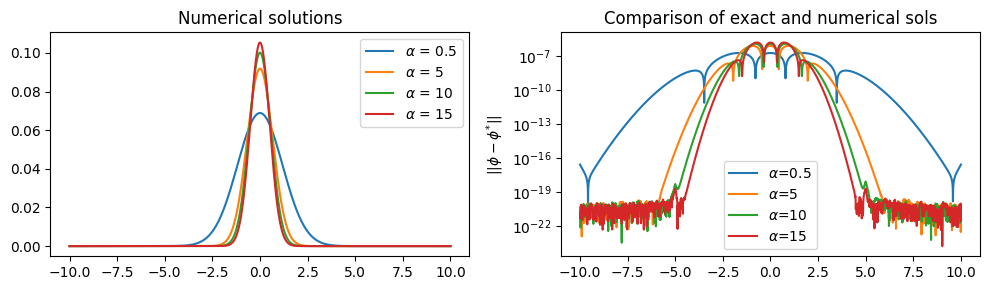
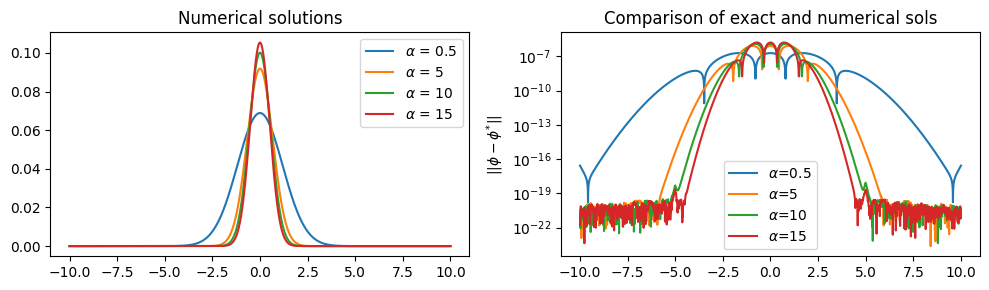
deploy: e552249bc8c4214d0dffef2617b33e865a4e3299

diff --git a/searchindex.js b/searchindex.js
@@ -1,1 +1,1 @@
-Search.setIndex({docnames:["contributors","dft/dft","gp/gp","greedy/greedy","ho/1dHO","ho/ho","ho/ho-rbm","ho/ho-ritz","introduction/emulators","introduction/introduction","introduction/redundancy","landing","markdown-notebooks","notebooks","rbm/lagrange","rbm/pod","rbm/projecting","rbm/rbm","rbm/training","scattering/scattering","transforms/transforms"],envversion:{"sphinx.domains.c":2,"sphinx.domains.changeset":1,"sphinx.domains.citation":1,"sphinx.domains.cpp":5,"sphinx.domains.index":1,"sphinx.domains.javascript":2,"sphinx.domains.math":2,"sphinx.domains.python":3,"sphinx.domains.rst":2,"sphinx.domains.std":2,"sphinx.ext.intersphinx":1,"sphinxcontrib.bibtex":9,sphinx:56},filenames:["contributors.md","dft/dft.md","gp/gp.md","greedy/greedy.md","ho/1dHO.ipynb","ho/ho.md","ho/ho-rbm.md","ho/ho-ritz.md","introduction/emulators.md","introduction/introduction.md","introduction/redundancy.md","landing.md","markdown-notebooks.md","notebooks.ipynb","rbm/lagrange.md","rbm/pod.md","rbm/projecting.md","rbm/rbm.md","rbm/training.md","scattering/scattering.md","transforms/transforms.md"],objects:{},objnames:{},objtypes:{},terms:{"0":[4,13],"001175561288746":4,"0011755612887460742":4,"01421624":4,"02001628":4,"05":4,"06":4,"0x7f6764757890":13,"1":[11,13],"10":[4,13],"100":13,"12":4,"1250143395222807e":4,"125043601093225e":4,"15":4,"1622151589324003":4,"1622776601683795":4,"19680801":13,"1d":4,"2":[4,11,12],"2001":4,"236036727063779":4,"23606797749979":4,"240":4,"25":4,"250123597917323e":4,"2d":4,"2me":4,"2nd":4,"3":[4,11],"31046244":4,"375226888597155e":4,"4":[4,11,12,13],"5":[4,13],"6":4,"707103656172208":4,"7071067811865476":4,"72240374":4,"872889593938531":4,"872983346207417":4,"9":4,"default":12,"do":[4,13],"float":4,"function":4,"import":[4,13],"new":4,"return":4,As:13,But:13,For:[4,11,13],If:[0,12],That:12,The:[11,12],There:13,These:4,To:4,With:12,_:4,_ioncontext:13,a_:4,a_k:4,a_sol:4,a_vec:4,ab:4,abil:4,about:[12,13],abov:4,accur:4,add:0,add_:13,addit:4,ak_guess:4,ak_system:4,algorithm:11,align:[4,13],all:12,alpha:4,alpha_:4,alpha_k:4,alpha_sampl:4,alpha_v:4,also:[4,12,13],an:4,ani:[4,12],anyth:0,appli:4,applic:11,appproxim:4,approx_sol:4,approxim:4,ar:[4,12],arang:4,arbitrari:4,around:4,arrai:[4,13],ascend:4,assign:4,assum:4,ax:[4,13],base:12,begin:[4,13],big:4,block:12,book:[0,12,13],boundari:4,built:12,can:[4,11,12,13],cheaper:4,check:[4,13],choic:4,choos:4,chosen:4,cm:13,cmap:13,code:[11,12],coeffeci:4,cold:13,color:13,column:4,com:11,come:4,command:12,comparison:4,compon:4,condit:4,consid:4,construct_h:4,contact:0,content:[0,12],contribut:[0,4],contributor:11,convert:12,coolwarm:13,copi:4,correspond:4,creat:13,custom_lin:13,cycler:13,d:[0,4,12],data:13,decomposit:4,decreas:4,def:4,defin:[4,12],definit:4,demo:4,depend:4,descript:4,detail:12,dft:11,diag:4,diagon:4,diff:4,differ:4,differenti:4,dim:4,dimension:11,direct:12,directli:4,discret:4,displai:12,document:[12,13],dollar:13,domain:4,dot:4,down:4,dx:4,e:4,each:4,eigenvalu:4,eigenvector:4,eigh:4,element:4,emb:13,end:[4,13],energi:4,enforc:4,enumer:4,equat:[4,11],eric:[0,4],error:4,escap:13,etc:13,eval:4,evalu:4,evect:4,everyon:0,exact:4,exampl:[11,13],excit:[4,11],execut:12,exp:4,explicitli:4,f:4,f_:4,factori:4,few:4,fig:[4,13],figsiz:[4,13],file:12,fill:11,find:[4,11],finit:4,first:4,fix:[4,13],flynn:[0,4],follow:12,form:4,found:11,frac:4,frequenc:4,from:[4,13],fsolv:4,gain:4,galerkin:4,gener:11,get:[4,12],getexactlambda:4,getpsi_x:4,getsystem:4,github:11,give:4,given:4,global:4,goal:4,godbei:0,greedi:11,grid:4,gross:11,guess:4,guid:13,h:4,h_k:4,ha:[0,4],hamiltonian:4,harmon:11,hat:4,have:12,hbar:4,here:[4,11,13],herm:4,hermit:4,ho:4,hold:4,hot:13,how:[4,12],howev:4,html:13,http:11,i:4,idea:0,ident:4,ii:13,imag:13,impli:4,includ:[12,13],increas:4,independ:4,inform:[4,12,13],init:12,initi:4,instruct:12,integ:4,integr:4,interact:13,interest:4,interpret:4,ion:13,j:4,jupyt:[12,13],jupytext:12,just:4,k:4,keep:13,kernel:12,know:4,kp:4,kyle:0,kylegodbei:11,la_:13,label:4,lambda:4,lambda_:4,lambda_exact:4,langl:4,lead:4,left:4,legend:[4,13],len:4,length:4,less:4,let:12,like:[0,12],linalg:4,line2d:13,line:[12,13],linearli:4,linspac:13,list:11,live:0,logspac:13,lot:13,lw:13,m:4,mai:4,make:[4,13],mani:[0,4,12],manifold:4,markdownfil:12,mass:4,math:[4,13],matmul:4,matplotlib:[4,13],matrix:4,mbox:13,md:12,mean:13,medium:13,method:4,might:4,model:4,modifi:11,more:[12,13],move:4,mu:4,n:[4,13],n_comp:4,nd:4,ndarrai:4,need:[4,12],norm:4,normal:4,note:4,now:[4,11],np:[4,13],nth:4,number:4,numer:4,numpi:[4,13],o:4,off:12,off_diag:4,ok:4,omega:4,one:11,oper:4,optim:4,order:4,orthogon:4,oscil:11,other:12,our:4,out:13,output:[4,12],over:4,page:[4,12],panel:4,paper:11,paperarch:11,paramet:4,path:12,phi:4,phi_:4,phi_arrai:4,pi:4,pitaevskii:11,pleas:0,plot:[4,13],plt:[4,13],point:4,posit:4,post:13,potenti:4,presenc:12,principl:4,print:[4,12],problem:4,project:4,projector:4,prop_cycl:13,psi:4,psi_:4,psi_arrai:4,pyplot:[4,13],quantifi:4,quantum:11,r:4,randn:13,random:13,rang:[4,13],rangl:4,rbm:[4,11],rcparam:13,reduc:4,repeatli:4,reproduc:13,rest:[4,12],result:[4,11],right:[4,11],row:4,run:12,s:[4,12,13],same:4,sampl:13,scatter:11,scheme:4,schroding:4,sci:4,scipi:4,se:4,see:[4,11,12,13],seed:13,seem:4,select:4,semilog:4,set:4,set_titl:4,set_ylabel:4,setup:4,should:12,show:[4,12],sigma:4,sign:13,significantli:4,simpl:11,simpson:4,sinc:4,singular:4,slow:4,so:12,sol:4,solut:4,some:[0,13],soon:11,space:4,span:4,special:4,sqrt:4,start:[4,12],state:[4,13],str:4,stretch:11,subplot:[4,13],subspac:4,sum_:4,support:12,sure:[4,13],svd:4,syetem:4,system:4,t:[4,13],t_eval:4,take:4,taken:4,tell:4,term:4,tex:13,text:12,thank:0,thi:[0,4,11,12,13],thing:12,tight_layout:4,toeplitz:4,top:12,translat:11,treat:12,tree:11,true_wf:4,tutori:[4,11],two:12,type:4,u:4,understand:12,unknown:4,up:4,us:[4,12],usual:4,v:4,valu:4,variabl:4,vector:4,vh:4,wai:0,want:[4,13],warn:4,wavefunct:4,we:4,webmast:0,well:[4,13],wf:4,wf_val:4,when:12,where:4,which:12,without:4,work:[4,13],write:12,written:12,x:4,x_a:4,x_arrai:4,x_b:4,you:[0,11,12,13],your:[0,4,12,13],zero:4,zettili:4},titles:["Contributors","Application 4: Nuclear DFT","Application 2: The Gross-Pitaevskii Equation","The Greedy Algorithm","Application 1: The Quantum Harmonic Oscillator","Application 1: The Quantum Harmonic Oscillator","The RBM Approach","The Ritz Variational Approach","Why Emulators?","Introduction","Redundancy in Simulations","Introduction to Reduced-Basis Methods in Nuclear Physics","Notebooks with MyST Markdown","Content with notebooks","Lagrange Reduced Basis","PCA and POD","Finding the Coefficients: Projecting","The Reduced Basis Method","Choosing the Basis: Training","Application 3: Nuclear Scattering","Modifying the Basis: Stretching and Translating"],titleterms:{"1":[4,5],"2":2,"3":19,"4":1,The:[2,3,4,5,6,7,17],add:12,algorithm:3,an:12,applic:[1,2,4,5,19],approach:[6,7],background:4,basi:[4,11,14,17,18,20],block:13,cell:12,choos:18,code:13,coeffici:16,compar:4,construct:4,content:13,contributor:0,creat:12,dft:1,doctor:4,emul:8,equat:2,exactli:4,exampl:12,find:16,greedi:3,gross:2,harmon:[4,5],introduct:[9,11],lagrang:14,markdown:[12,13],metadata:12,method:[11,17],modifi:20,myst:[12,13],notebook:[12,13],nuclear:[1,11,19],oscil:[4,5],output:13,pca:[4,15],physic:11,pitaevskii:2,pod:15,project:16,quantum:[4,5],quickli:12,rbm:6,reduc:[11,14,17],redund:10,ritz:7,scatter:19,simul:10,solv:4,stretch:20,train:18,translat:20,variat:7,visit:4,why:8,yaml:12}})
+Search.setIndex({docnames:["contributors","dft/dft","gp/gp","greedy/greedy","ho/1dHO","ho/ho","ho/ho-rbm","ho/ho-ritz","introduction/emulators","introduction/introduction","introduction/redundancy","landing","markdown-notebooks","notebooks","rbm/lagrange","rbm/pod","rbm/projecting","rbm/rbm","rbm/training","scattering/scattering","transforms/transforms"],envversion:{"sphinx.domains.c":2,"sphinx.domains.changeset":1,"sphinx.domains.citation":1,"sphinx.domains.cpp":5,"sphinx.domains.index":1,"sphinx.domains.javascript":2,"sphinx.domains.math":2,"sphinx.domains.python":3,"sphinx.domains.rst":2,"sphinx.domains.std":2,"sphinx.ext.intersphinx":1,"sphinxcontrib.bibtex":9,sphinx:56},filenames:["contributors.md","dft/dft.md","gp/gp.md","greedy/greedy.md","ho/1dHO.ipynb","ho/ho.md","ho/ho-rbm.md","ho/ho-ritz.md","introduction/emulators.md","introduction/introduction.md","introduction/redundancy.md","landing.md","markdown-notebooks.md","notebooks.ipynb","rbm/lagrange.md","rbm/pod.md","rbm/projecting.md","rbm/rbm.md","rbm/training.md","scattering/scattering.md","transforms/transforms.md"],objects:{},objnames:{},objtypes:{},terms:{"0":[4,13],"0011755612878099342":4,"00117556128781":4,"01421624":4,"02001628":4,"05":4,"06":4,"0x7fe900cea590":13,"1":[11,13],"10":[4,13],"100":13,"12":4,"1250143394112584e":4,"1250436011820426e":4,"15":4,"1622151589324003":4,"1622776601683795":4,"19680801":13,"1d":4,"2":[4,11,12],"2001":4,"236036727063778":4,"23606797749979":4,"240":4,"25":4,"250123597917323e":4,"2d":4,"2me":4,"2nd":4,"3":[4,11],"31046244":4,"375226888597155e":4,"4":[4,11,12,13],"5":[4,13],"6":4,"7071036561722082":4,"7071067811865476":4,"72240374":4,"872889593938531":4,"872983346207417":4,"9":4,"default":12,"do":[4,13],"float":4,"function":4,"import":[4,13],"new":4,"return":4,As:13,But:13,For:[4,11,13],If:[0,12],That:12,The:[11,12],There:13,These:4,To:4,With:12,_:4,_ioncontext:13,a_:4,a_k:4,a_sol:4,a_vec:4,ab:4,abil:4,about:[12,13],abov:4,accur:4,add:0,add_:13,addit:4,ak_guess:4,ak_system:4,algorithm:11,align:[4,13],all:12,alpha:4,alpha_:4,alpha_k:4,alpha_sampl:4,alpha_v:4,also:[4,12,13],an:4,ani:[4,12],anyth:0,appli:4,applic:11,appproxim:4,approx_sol:4,approxim:4,ar:[4,12],arang:4,arbitrari:4,around:4,arrai:[4,13],ascend:4,assign:4,assum:4,ax:[4,13],base:12,begin:[4,13],big:4,block:12,book:[0,12,13],boundari:4,built:12,can:[4,11,12,13],cheaper:4,check:[4,13],choic:4,choos:4,chosen:4,cm:13,cmap:13,code:[11,12],coeffeci:4,cold:13,color:13,column:4,com:11,come:4,command:12,comparison:4,compon:4,condit:4,consid:4,construct_h:4,contact:0,content:[0,12],contribut:[0,4],contributor:11,convert:12,coolwarm:13,copi:4,correspond:4,creat:13,custom_lin:13,cycler:13,d:[0,4,12],data:13,decomposit:4,decreas:4,def:4,defin:[4,12],definit:4,demo:4,depend:4,descript:4,detail:12,dft:11,diag:4,diagon:4,diff:4,differ:4,differenti:4,dim:4,dimension:11,direct:12,directli:4,discret:4,displai:12,document:[12,13],dollar:13,domain:4,dot:4,down:4,dx:4,e:4,each:4,eigenvalu:4,eigenvector:4,eigh:4,element:4,emb:13,end:[4,13],energi:4,enforc:4,enumer:4,equat:[4,11],eric:[0,4],error:4,escap:13,etc:13,eval:4,evalu:4,evect:4,everyon:0,exact:4,exampl:[11,13],excit:[4,11],execut:12,exp:4,explicitli:4,f:4,f_:4,factori:4,few:4,fig:[4,13],figsiz:[4,13],file:12,fill:11,find:[4,11],finit:4,first:4,fix:[4,13],flynn:[0,4],follow:12,form:4,found:11,frac:4,frequenc:4,from:[4,13],fsolv:4,gain:4,galerkin:4,gener:11,get:[4,12],getexactlambda:4,getpsi_x:4,getsystem:4,github:11,give:4,given:4,global:4,goal:4,godbei:0,greedi:11,grid:4,gross:11,guess:4,guid:13,h:4,h_k:4,ha:[0,4],hamiltonian:4,harmon:11,hat:4,have:12,hbar:4,here:[4,11,13],herm:4,hermit:4,ho:4,hold:4,hot:13,how:[4,12],howev:4,html:13,http:11,i:4,idea:0,ident:4,ii:13,imag:13,impli:4,includ:[12,13],increas:4,independ:4,inform:[4,12,13],init:12,initi:4,instruct:12,integ:4,integr:4,interact:13,interest:4,interpret:4,ion:13,j:4,jupyt:[12,13],jupytext:12,just:4,k:4,keep:13,kernel:12,know:4,kp:4,kyle:0,kylegodbei:11,la_:13,label:4,lambda:4,lambda_:4,lambda_exact:4,langl:4,lead:4,left:4,legend:[4,13],len:4,length:4,less:4,let:12,like:[0,12],linalg:4,line2d:13,line:[12,13],linearli:4,linspac:13,list:11,live:0,logspac:13,lot:13,lw:13,m:4,mai:4,make:[4,13],mani:[0,4,12],manifold:4,markdownfil:12,mass:4,math:[4,13],matmul:4,matplotlib:[4,13],matrix:4,mbox:13,md:12,mean:13,medium:13,method:4,might:4,model:4,modifi:11,more:[12,13],move:4,mu:4,n:[4,13],n_comp:4,nd:4,ndarrai:4,need:[4,12],norm:4,normal:4,note:4,now:[4,11],np:[4,13],nth:4,number:4,numer:4,numpi:[4,13],o:4,off:12,off_diag:4,ok:4,omega:4,one:11,oper:4,optim:4,order:4,orthogon:4,oscil:11,other:12,our:4,out:13,output:[4,12],over:4,page:[4,12],panel:4,paper:11,paperarch:11,paramet:4,path:12,phi:4,phi_:4,phi_arrai:4,pi:4,pitaevskii:11,pleas:0,plot:[4,13],plt:[4,13],point:4,posit:4,post:13,potenti:4,presenc:12,principl:4,print:[4,12],problem:4,project:4,projector:4,prop_cycl:13,psi:4,psi_:4,psi_arrai:4,pyplot:[4,13],quantifi:4,quantum:11,r:4,randn:13,random:13,rang:[4,13],rangl:4,rbm:[4,11],rcparam:13,reduc:4,repeatli:4,reproduc:13,rest:[4,12],result:[4,11],right:[4,11],row:4,run:12,s:[4,12,13],same:4,sampl:13,scatter:11,scheme:4,schroding:4,sci:4,scipi:4,se:4,see:[4,11,12,13],seed:13,seem:4,select:4,semilog:4,set:4,set_titl:4,set_ylabel:4,setup:4,should:12,show:[4,12],sigma:4,sign:13,significantli:4,simpl:11,simpson:4,sinc:4,singular:4,slow:4,so:12,sol:4,solut:4,some:[0,13],soon:11,space:4,span:4,special:4,sqrt:4,start:[4,12],state:[4,13],str:4,stretch:11,subplot:[4,13],subspac:4,sum_:4,support:12,sure:[4,13],svd:4,syetem:4,system:4,t:[4,13],t_eval:4,take:4,taken:4,tell:4,term:4,tex:13,text:12,thank:0,thi:[0,4,11,12,13],thing:12,tight_layout:4,toeplitz:4,top:12,translat:11,treat:12,tree:11,true_wf:4,tutori:[4,11],two:12,type:4,u:4,understand:12,unknown:4,up:4,us:[4,12],usual:4,v:4,valu:4,variabl:4,vector:4,vh:4,wai:0,want:[4,13],warn:4,wavefunct:4,we:4,webmast:0,well:[4,13],wf:4,wf_val:4,when:12,where:4,which:12,without:4,work:[4,13],write:12,written:12,x:4,x_a:4,x_arrai:4,x_b:4,you:[0,11,12,13],your:[0,4,12,13],zero:4,zettili:4},titles:["Contributors","Application 4: Nuclear DFT","Application 2: The Gross-Pitaevskii Equation","The Greedy Algorithm","Application 1: The Quantum Harmonic Oscillator","Application 1: The Quantum Harmonic Oscillator","The RBM Approach","The Ritz Variational Approach","Why Emulators?","Introduction","Redundancy in Simulations","Introduction to Reduced-Basis Methods in Nuclear Physics","Notebooks with MyST Markdown","Content with notebooks","Lagrange Reduced Basis","PCA and POD","Finding the Coefficients: Projecting","The Reduced Basis Method","Choosing the Basis: Training","Application 3: Nuclear Scattering","Modifying the Basis: Stretching and Translating"],titleterms:{"1":[4,5],"2":2,"3":19,"4":1,The:[2,3,4,5,6,7,17],add:12,algorithm:3,an:12,applic:[1,2,4,5,19],approach:[6,7],background:4,basi:[4,11,14,17,18,20],block:13,cell:12,choos:18,code:13,coeffici:16,compar:4,construct:4,content:13,contributor:0,creat:12,dft:1,doctor:4,emul:8,equat:2,exactli:4,exampl:12,find:16,greedi:3,gross:2,harmon:[4,5],introduct:[9,11],lagrang:14,markdown:[12,13],metadata:12,method:[11,17],modifi:20,myst:[12,13],notebook:[12,13],nuclear:[1,11,19],oscil:[4,5],output:13,pca:[4,15],physic:11,pitaevskii:2,pod:15,project:16,quantum:[4,5],quickli:12,rbm:6,reduc:[11,14,17],redund:10,ritz:7,scatter:19,simul:10,solv:4,stretch:20,train:18,translat:20,variat:7,visit:4,why:8,yaml:12}})

diff --git a/ho/1dHO.html b/ho/1dHO.html
@@ -511,14 +511,14 @@ title="Print to PDF"
 <section id="background">
 <h2>Background<a class="headerlink" href="#background" title="Permalink to this headline">#</a></h2>
 <p>Consider the Schrodinger equation for the 1-d Harmonic Oscillator:</p>
-<div class="amsmath math notranslate nohighlight" id="equation-d1c70162-ba73-4487-b9e9-a5c83886c724">
-<span class="eqno">(1)<a class="headerlink" href="#equation-d1c70162-ba73-4487-b9e9-a5c83886c724" title="Permalink to this equation">#</a></span>\[\begin{align}
+<div class="amsmath math notranslate nohighlight" id="equation-cdeb8f35-b36a-44c0-bff2-6d55ee4d18b5">
+<span class="eqno">(1)<a class="headerlink" href="#equation-cdeb8f35-b36a-44c0-bff2-6d55ee4d18b5" title="Permalink to this equation">#</a></span>\[\begin{align}
 &amp;\Big(- \frac{d^{2}}{dx^{2}} + \alpha x^{2}  - \lambda \Big) \phi = 0 \\
 &amp;F_{\alpha}\Big( \phi_{\alpha}(x) \Big) = 0 
 \end{align}\]</div>
 <p>where <span class="math notranslate nohighlight">\(\lambda = 2 m E\)</span> is the eigenvalue with energy <span class="math notranslate nohighlight">\(E\)</span> and <span class="math notranslate nohighlight">\(\alpha = m^{2} \omega^{2}\)</span> is the harmonic oscillator parameter. We want to find solutions to this equation for many values of <span class="math notranslate nohighlight">\(\alpha\)</span> without repeatly solving the Schrodinger equation directly. We do this by constructing an approximate solution</p>
-<div class="amsmath math notranslate nohighlight" id="equation-a11cf306-c7a7-4a8a-a784-7fe0b66b4843">
-<span class="eqno">(2)<a class="headerlink" href="#equation-a11cf306-c7a7-4a8a-a784-7fe0b66b4843" title="Permalink to this equation">#</a></span>\[\begin{align}
+<div class="amsmath math notranslate nohighlight" id="equation-94d60e35-9273-4659-9ec6-7897cdf13938">
+<span class="eqno">(2)<a class="headerlink" href="#equation-94d60e35-9273-4659-9ec6-7897cdf13938" title="Permalink to this equation">#</a></span>\[\begin{align}
 \hat{\phi}_{\alpha_{k}}(x) = \sum_{i=1}^{n} a_{i} \phi_{i}(x) 
 \end{align}\]</div>
 <p>where <span class="math notranslate nohighlight">\(\phi_{i}(x)\)</span> are exact solutions to the Schrodinger equation for chosen values of <span class="math notranslate nohighlight">\(\alpha\)</span>. The goal of this tutorial is to show how Galerkin projection can be used to construct an approximate solution <span class="math notranslate nohighlight">\(\hat{\phi}_{\alpha_{k}}(x)\)</span> that is significantly cheaper to evaluate for any <span class="math notranslate nohighlight">\(\alpha\)</span> of interest and to quantify the error of  <span class="math notranslate nohighlight">\(\hat{\phi}_{\alpha_{k}}(x)\)</span> and approximate eigenvalues <span class="math notranslate nohighlight">\(\hat{\lambda}_{\alpha_{k}}\)</span>.</p>
@@ -770,11 +770,11 @@ title="Print to PDF"
 </div>
 </div>
 <div class="cell_output docutils container">
-<div class="output stream highlight-myst-ansi notranslate"><div class="highlight"><pre><span></span>alpha = 0.5, lambda = 0.707103656172208
+<div class="output stream highlight-myst-ansi notranslate"><div class="highlight"><pre><span></span>alpha = 0.5, lambda = 0.7071036561722082
 alpha = 0.5, exact lambda = 0.7071067811865476
 </pre></div>
 </div>
-<div class="output stream highlight-myst-ansi notranslate"><div class="highlight"><pre><span></span>alpha = 5, lambda = 2.236036727063779
+<div class="output stream highlight-myst-ansi notranslate"><div class="highlight"><pre><span></span>alpha = 5, lambda = 2.236036727063778
 alpha = 5, exact lambda = 2.23606797749979
 </pre></div>
 </div>
@@ -787,8 +787,8 @@ alpha = 15, exact lambda = 3.872983346207417
 </pre></div>
 </div>
 <img alt="../_images/1dHO_7_4.png" src="../_images/1dHO_7_4.png" />
-<div class="output stream highlight-myst-ansi notranslate"><div class="highlight"><pre><span></span>|lambda - lambda_exact| = 3.1250143395222807e-06
-|lambda - lambda_exact| = 3.125043601093225e-05
+<div class="output stream highlight-myst-ansi notranslate"><div class="highlight"><pre><span></span>|lambda - lambda_exact| = 3.1250143394112584e-06
+|lambda - lambda_exact| = 3.1250436011820426e-05
 |lambda - lambda_exact| = 6.250123597917323e-05
 |lambda - lambda_exact| = 9.375226888597155e-05
 </pre></div>
@@ -825,13 +825,13 @@ alpha = 15, exact lambda = 3.872983346207417
 <h2>Constructing the Basis and Comparing<a class="headerlink" href="#constructing-the-basis-and-comparing" title="Permalink to this headline">#</a></h2>
 <p>Now that we know RBM is applicable to our problem, we now construct a reduced basis for the Schrodinger equation.</p>
 <p>Here we explicitly construct <span class="math notranslate nohighlight">\( \hat{\phi}_{\alpha_{k}}= \sum_{i=1}^{n} a_{i} \phi_{i}\)</span> using the Galerkin method, that is, projecting <span class="math notranslate nohighlight">\(F_{\alpha_{k}}\big( \hat{\phi}_{\alpha_{k}}(x) \big)\)</span> over <span class="math notranslate nohighlight">\(n\)</span> linearly independent functions projecting functions <span class="math notranslate nohighlight">\(\{ \psi_{i}\}_{i=1}^{n}\)</span>.</p>
-<div class="amsmath math notranslate nohighlight" id="equation-ea12975e-bccf-48b5-ad3a-b0a6627adb9f">
-<span class="eqno">(3)<a class="headerlink" href="#equation-ea12975e-bccf-48b5-ad3a-b0a6627adb9f" title="Permalink to this equation">#</a></span>\[\begin{align}
+<div class="amsmath math notranslate nohighlight" id="equation-e6567872-65dc-416b-88c6-1ad9409b2bb8">
+<span class="eqno">(3)<a class="headerlink" href="#equation-e6567872-65dc-416b-88c6-1ad9409b2bb8" title="Permalink to this equation">#</a></span>\[\begin{align}
 \langle \psi_{i}, F_{\alpha_{k}}\big( \hat{\phi}_{\alpha_{k}}(x) \big) \rangle = 0 
 \end{align}\]</div>
 <p>We can interpret this as enforcing the orthogonality of <span class="math notranslate nohighlight">\(F_{\alpha_{k}}\big( \hat{\phi}_{\alpha_{k}}(x) \big)\)</span> to the subspace spanned by <span class="math notranslate nohighlight">\(\{\psi_{i}\}\)</span> that is, by finding <span class="math notranslate nohighlight">\(\hat{\phi}_{\alpha}\)</span> such that <span class="math notranslate nohighlight">\(F_{\alpha_{k}}(\hat{\psi}_{\alpha_{k}})\)</span> is approximately zero up to the ability of the set <span class="math notranslate nohighlight">\(\{\psi_{i}\}\)</span>. The choice of projecting functions <span class="math notranslate nohighlight">\(\{ \psi_{i} \}\)</span> is arbitrary, but is usually also informed by the solution manifold. Here we choose the solution set <span class="math notranslate nohighlight">\(\{ \phi_{i} \}\)</span> to be our projecting functions. This leads to an equation <span class="math notranslate nohighlight">\(n\)</span> equations for the coeffecients <span class="math notranslate nohighlight">\(a_{k}\)</span>. However, since <span class="math notranslate nohighlight">\(\lambda\)</span> is also unknown, we need an additional equation. This comes from the normalization conditions</p>
-<div class="amsmath math notranslate nohighlight" id="equation-998c8988-68ac-42ad-8bbf-a807fb3af3ee">
-<span class="eqno">(4)<a class="headerlink" href="#equation-998c8988-68ac-42ad-8bbf-a807fb3af3ee" title="Permalink to this equation">#</a></span>\[\begin{align}
+<div class="amsmath math notranslate nohighlight" id="equation-0c05aa86-eeab-4974-8603-23268f154353">
+<span class="eqno">(4)<a class="headerlink" href="#equation-0c05aa86-eeab-4974-8603-23268f154353" title="Permalink to this equation">#</a></span>\[\begin{align}
 \langle \hat{\phi}_{\alpha_{k}},\hat{\phi}_{\alpha_{k}} \rangle  = 1
 \end{align}\]</div>
 <p>This results in <span class="math notranslate nohighlight">\(n +1\)</span> equations for the <span class="math notranslate nohighlight">\(n\)</span> unknown coeffecients <span class="math notranslate nohighlight">\(a_{k}\)</span> and eigenvalue <span class="math notranslate nohighlight">\(\lambda\)</span>.</p>
@@ -879,9 +879,9 @@ alpha = 15, exact lambda = 3.872983346207417
 </div>
 <div class="cell_output docutils container">
 <div class="output stream highlight-myst-ansi notranslate"><div class="highlight"><pre><span></span>Coeffecients a_k: [-0.02001628  0.72240374 -3.01421624  3.31046244]
-Appproximate lambda: 5.001175561288746
+Appproximate lambda: 5.00117556128781
 Exact lambda: 5.0
-lambda difference: 0.0011755612887460742
+lambda difference: 0.0011755612878099342
 </pre></div>
 </div>
 <img alt="../_images/1dHO_12_1.png" src="../_images/1dHO_12_1.png" />

diff --git a/notebooks.html b/notebooks.html
@@ -536,7 +536,7 @@ For example, here’s some sample Matplotlib code:</p>
 </div>
 </div>
 <div class="cell_output docutils container">
-<div class="output text_plain highlight-myst-ansi notranslate"><div class="highlight"><pre><span></span>&lt;matplotlib.pyplot._IonContext at 0x7f6764757890&gt;
+<div class="output text_plain highlight-myst-ansi notranslate"><div class="highlight"><pre><span></span>&lt;matplotlib.pyplot._IonContext at 0x7fe900cea590&gt;
 </pre></div>
 </div>
 </div>
